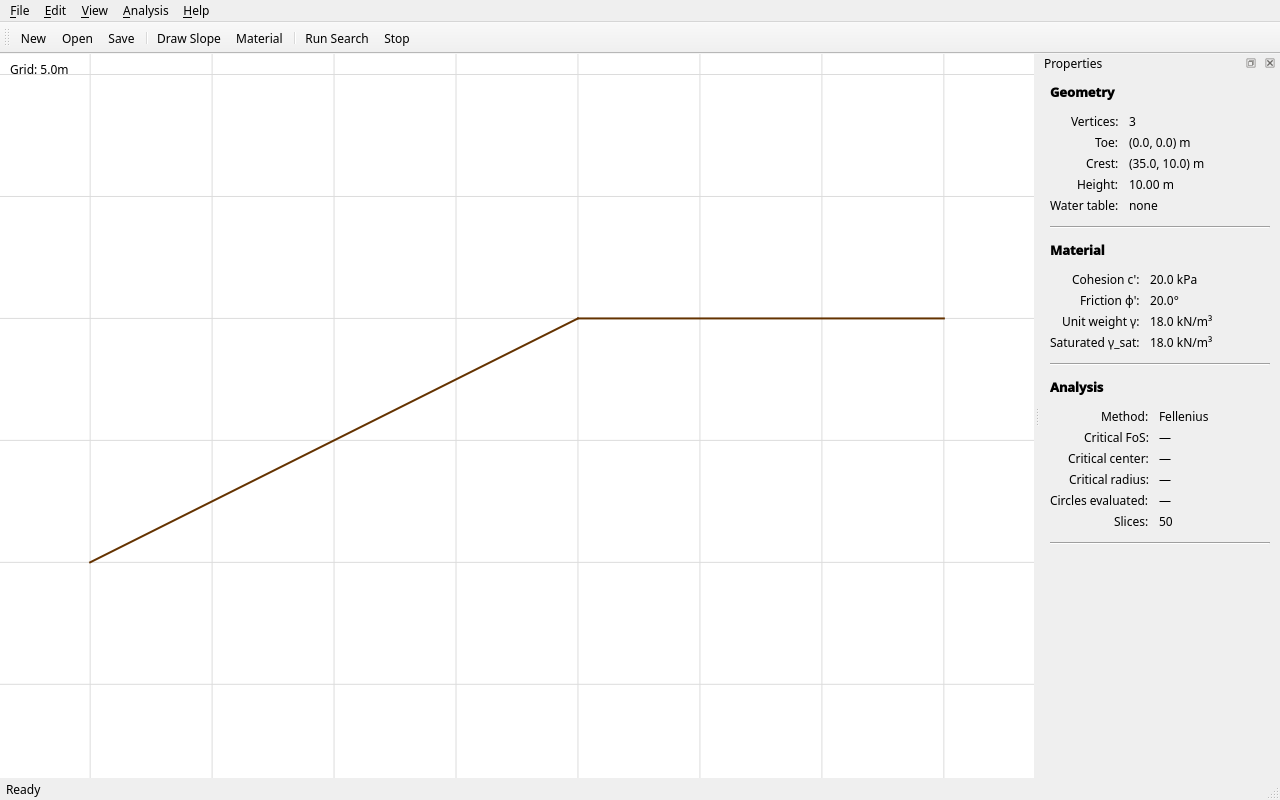
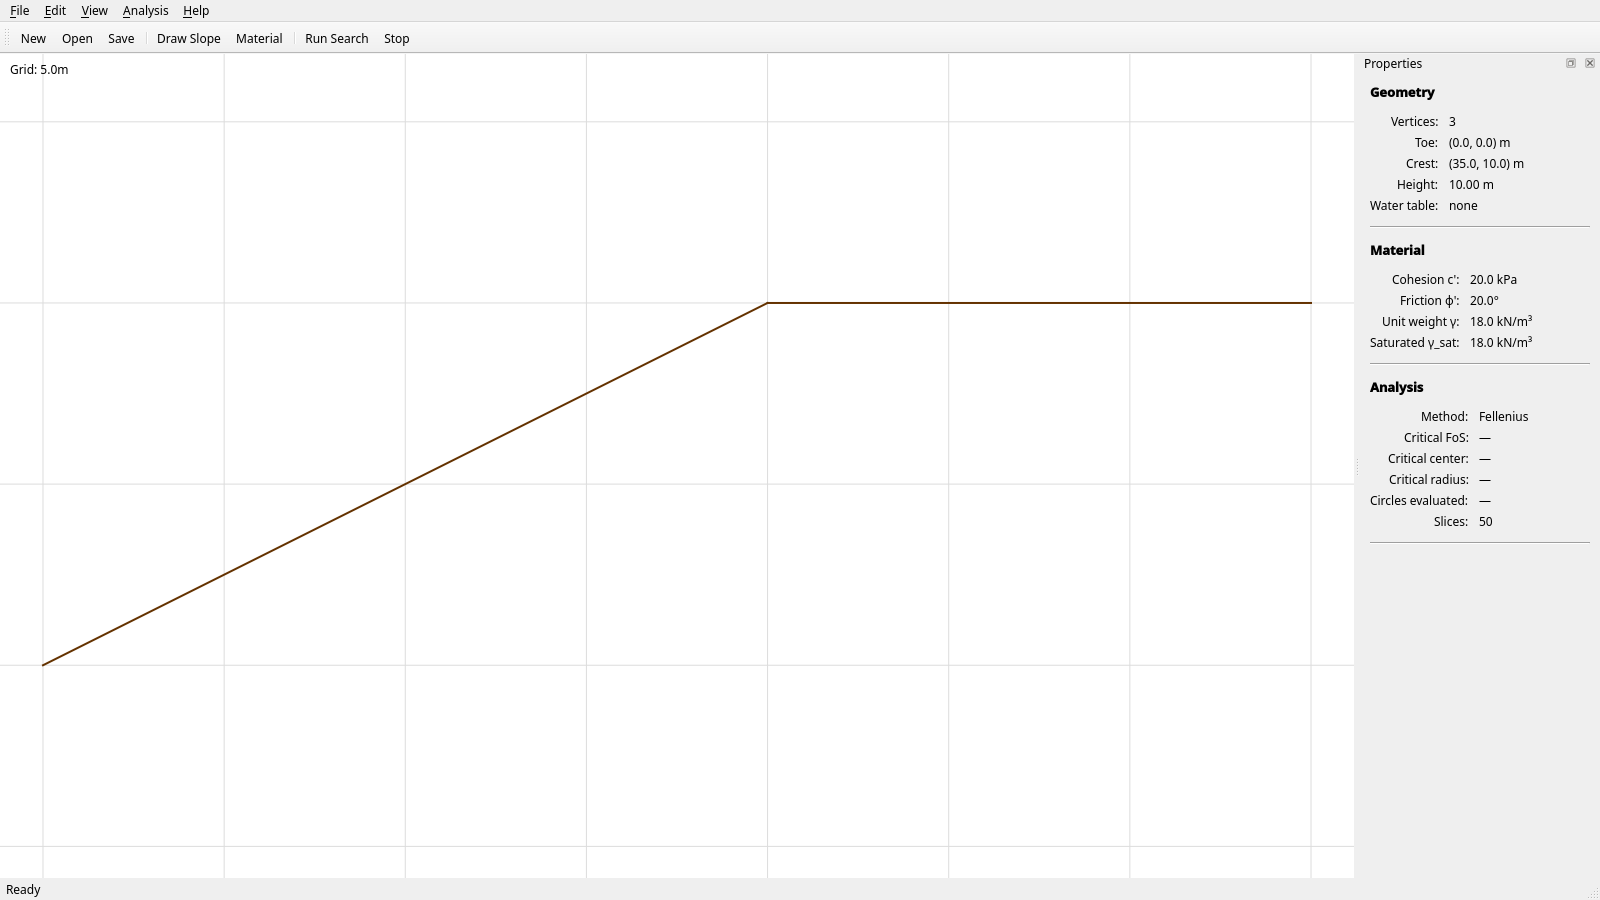
Slide-friendly screenshots: clip FoS contour to slope domain + bottom-half FoS, 16:9 framing
In swedish-circle's AnalysisOverlay._render_fos_contour:

- Clip the heatmap horizontally to the slope's x-domain. The search
  algorithm pads centers by 50% of slope length on each side; those
  off-axis centers don't add engineering signal and just produced a
  band that floated past the slope footprint.
- Clip vertically by FoS percentile: only color cells in the bottom
  half of the clipped FoS range (focus on the critical-surface
  neighborhood, drop merely-safe centers).
- Renormalize the colormap over the focused range so the gradient
  spends all of its dynamic range on cells we render.

Capture script:

- 16:9 window (1600x900) for slide-aspect output.
- fit_view fill factor exposed; per-shot framing tightened to slope
  bounding box so geometry fills the canvas rather than floating in
  whitespace.
- Multi-bench and FoS-contour shots no longer extend the view to
  include grid_extents (the heatmap now self-clips).

diff --git a/docs/screenshots/capture.py b/docs/screenshots/capture.py
@@ -24,7 +24,7 @@ from swedish_circle.material import Material, STIFF_CLAY
 from swedish_circle.search import search_critical_circle
 
 
-WINDOW_W, WINDOW_H = 1280, 800
+WINDOW_W, WINDOW_H = 1600, 900  # 16:9 for slides
 
 
 def process_events(times: int = 6) -> None:
@@ -41,8 +41,13 @@ def grab(widget, out: Path) -> None:
 
 
 def fit_view(canvas, xmin: float, xmax: float, ymin: float, ymax: float,
-             margin: float = 1.0) -> None:
-    """Frame the canvas to a specific world-space bounding box."""
+             margin: float = 1.0, fill: float = 0.99) -> None:
+    """Frame the canvas to a specific world-space bounding box.
+
+    ``fill`` controls how aggressively the bounding box stretches to the
+    edges of the canvas (1.0 = touch the edges; default 0.99 leaves a
+    1% safety margin so axes labels aren't cut by the dock border).
+    """
     xmin -= margin; xmax += margin
     ymin -= margin; ymax += margin
     w = canvas.width(); h = canvas.height()
@@ -50,7 +55,7 @@ def fit_view(canvas, xmin: float, xmax: float, ymin: float, ymax: float,
     world_h = ymax - ymin
     if world_w <= 0 or world_h <= 0:
         return
-    scale = min(w / world_w, h / world_h) * 0.92
+    scale = min(w / world_w, h / world_h) * fill
     cx = (xmin + xmax) / 2
     cy = (ymin + ymax) / 2
     t = QTransform()
@@ -133,7 +138,7 @@ def main() -> int:
     w.slope_profile = slope
     w.material = slope.material
     w.canvas.set_slope(slope)
-    fit_view(w.canvas, 0.0, 35.0, 0.0, 12.0, margin=2.0)
+    fit_view(w.canvas, 0.0, 35.0, 0.0, 11.0, margin=1.0)
     w.property_panel.update_from_window(w)
     grab(w, out_dir / "02_slope_geometry.png")
 
@@ -151,7 +156,7 @@ def main() -> int:
     w.last_search_result = result
     # Suppress the FoS contour for this engineering-clean view.
     overlay._render_fos_contour = lambda painter: None
-    fit_view(w.canvas, 0.0, 35.0, -2.0, 12.0, margin=1.5)
+    fit_view(w.canvas, 0.0, 35.0, -1.0, 11.0, margin=1.0)
     w.canvas.update()
     w.property_panel.update_from_window(w)
     grab(w, out_dir / "03_critical_circle.png")
@@ -161,10 +166,10 @@ def main() -> int:
     overlay._render_fos_contour = AnalysisOverlay._render_fos_contour.__get__(
         overlay, AnalysisOverlay,
     )
-    xmin, xmax, ymin, ymax = result.grid_extents
-    fx_min = min(0.0, xmin); fx_max = max(35.0, xmax)
-    fy_min = min(-2.0, ymin); fy_max = max(12.0, ymax)
-    fit_view(w.canvas, fx_min, fx_max, fy_min, fy_max, margin=1.0)
+    # The heatmap is now clipped to the slope's x-domain and to the
+    # bottom half of the FoS range, so we can frame to slope + a bit
+    # of headroom above to capture the critical-center neighborhood.
+    fit_view(w.canvas, 0.0, 35.0, -1.0, 24.0, margin=1.0)
     w.canvas.update()
     grab(w, out_dir / "04_fos_contour.png")
 
@@ -190,10 +195,9 @@ def main() -> int:
         overlay, AnalysisOverlay,
     )
     w.last_search_result = result3
-    xmin, xmax, ymin, ymax = result3.grid_extents
-    fx_min = min(0.0, xmin); fx_max = max(55.0, xmax)
-    fy_min = min(-2.0, ymin); fy_max = max(18.0, ymax)
-    fit_view(w.canvas, fx_min, fx_max, fy_min, fy_max, margin=1.0)
+    # Frame to slope footprint plus enough vertical room to show the
+    # heatmap above the upper plateau.
+    fit_view(w.canvas, 0.0, 55.0, -1.0, 38.0, margin=1.0)
     w.canvas.update()
     w.property_panel.update_from_window(w)
     grab(w, out_dir / "05_multi_bench.png")
@@ -216,7 +220,7 @@ def main() -> int:
     overlay._search_result = result2
     overlay._render_fos_contour = lambda painter: None
     w.last_search_result = result2
-    fit_view(w.canvas, 0.0, 25.0, -2.0, 10.0, margin=1.5)
+    fit_view(w.canvas, 0.0, 25.0, -1.0, 9.0, margin=1.0)
     w.canvas.update()
     w.property_panel.update_from_window(w)
     grab(w, out_dir / "06_steeper_slope.png")
